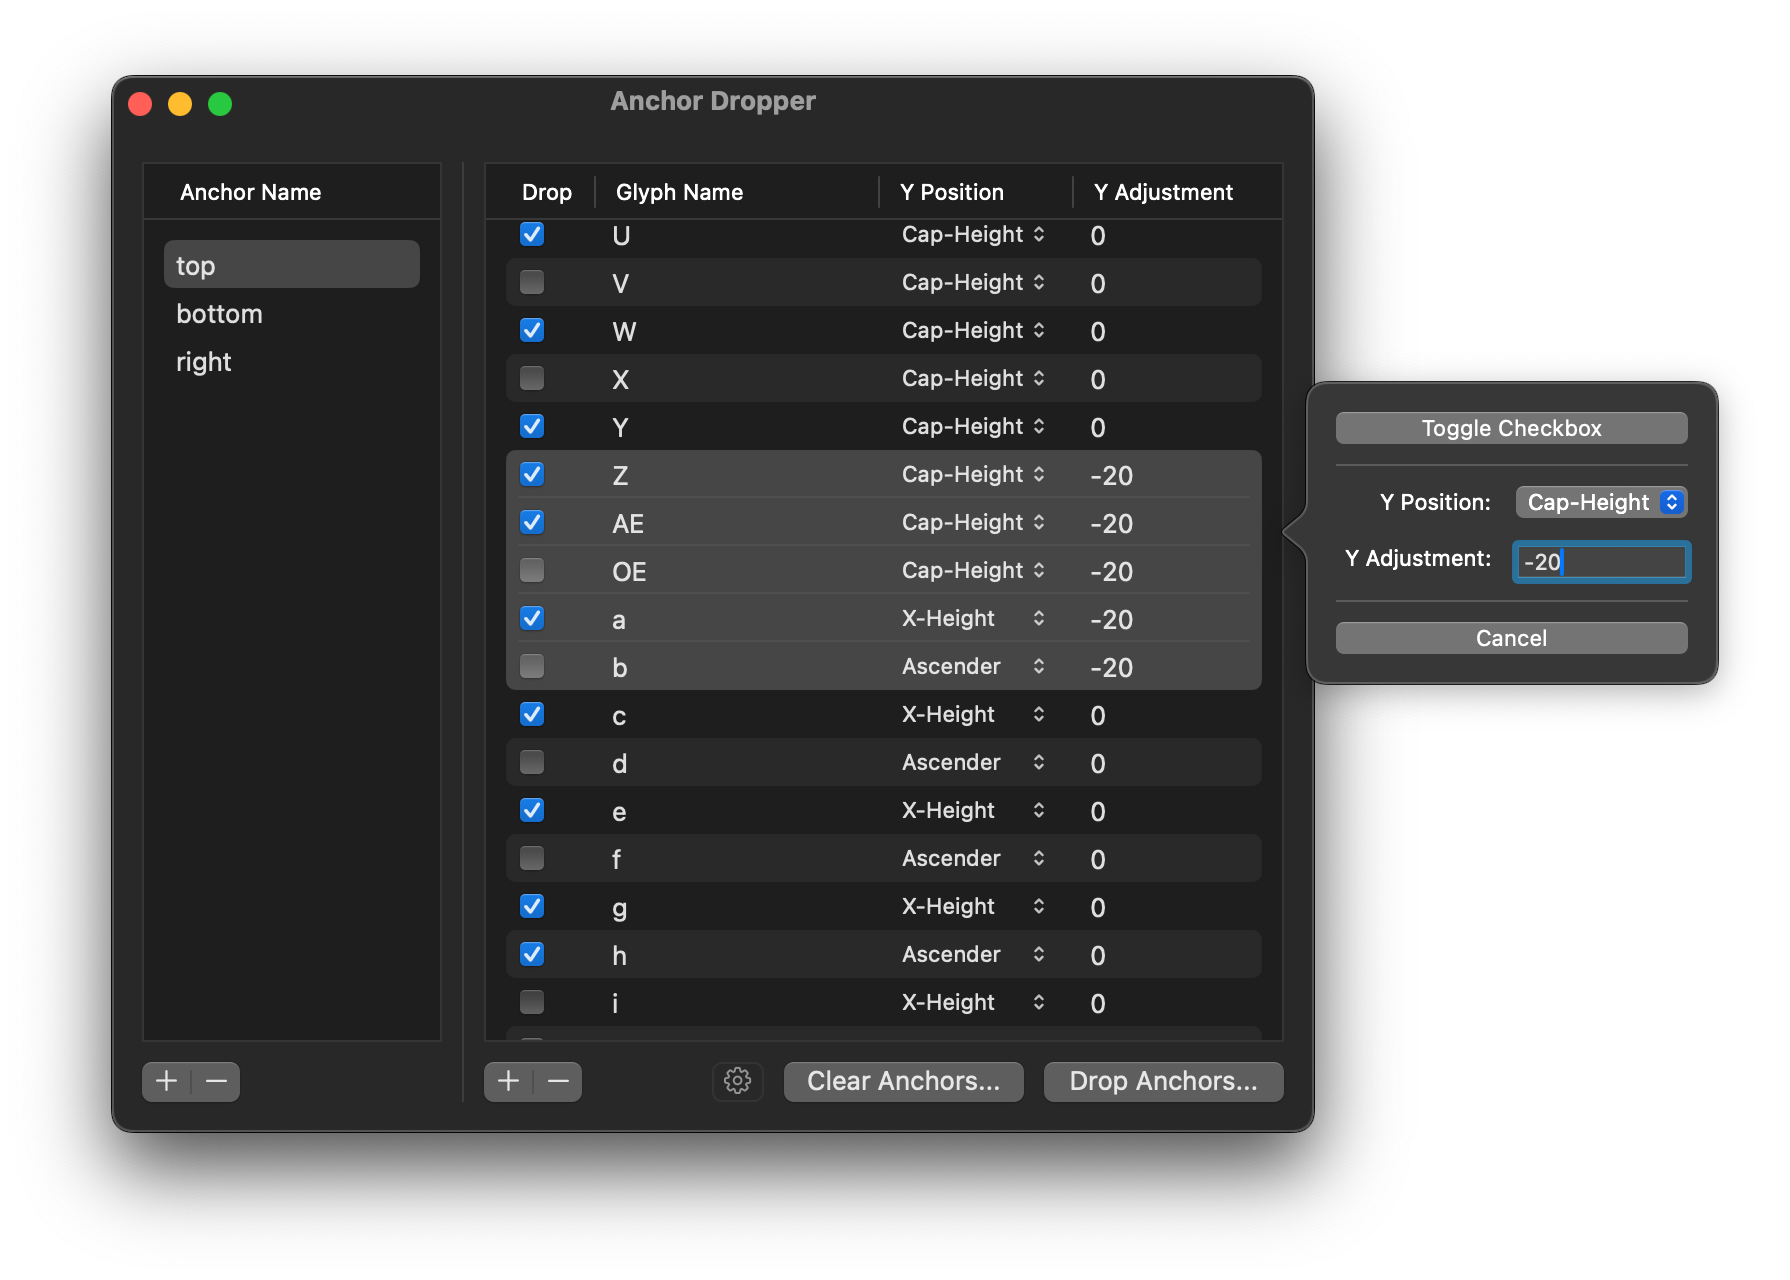
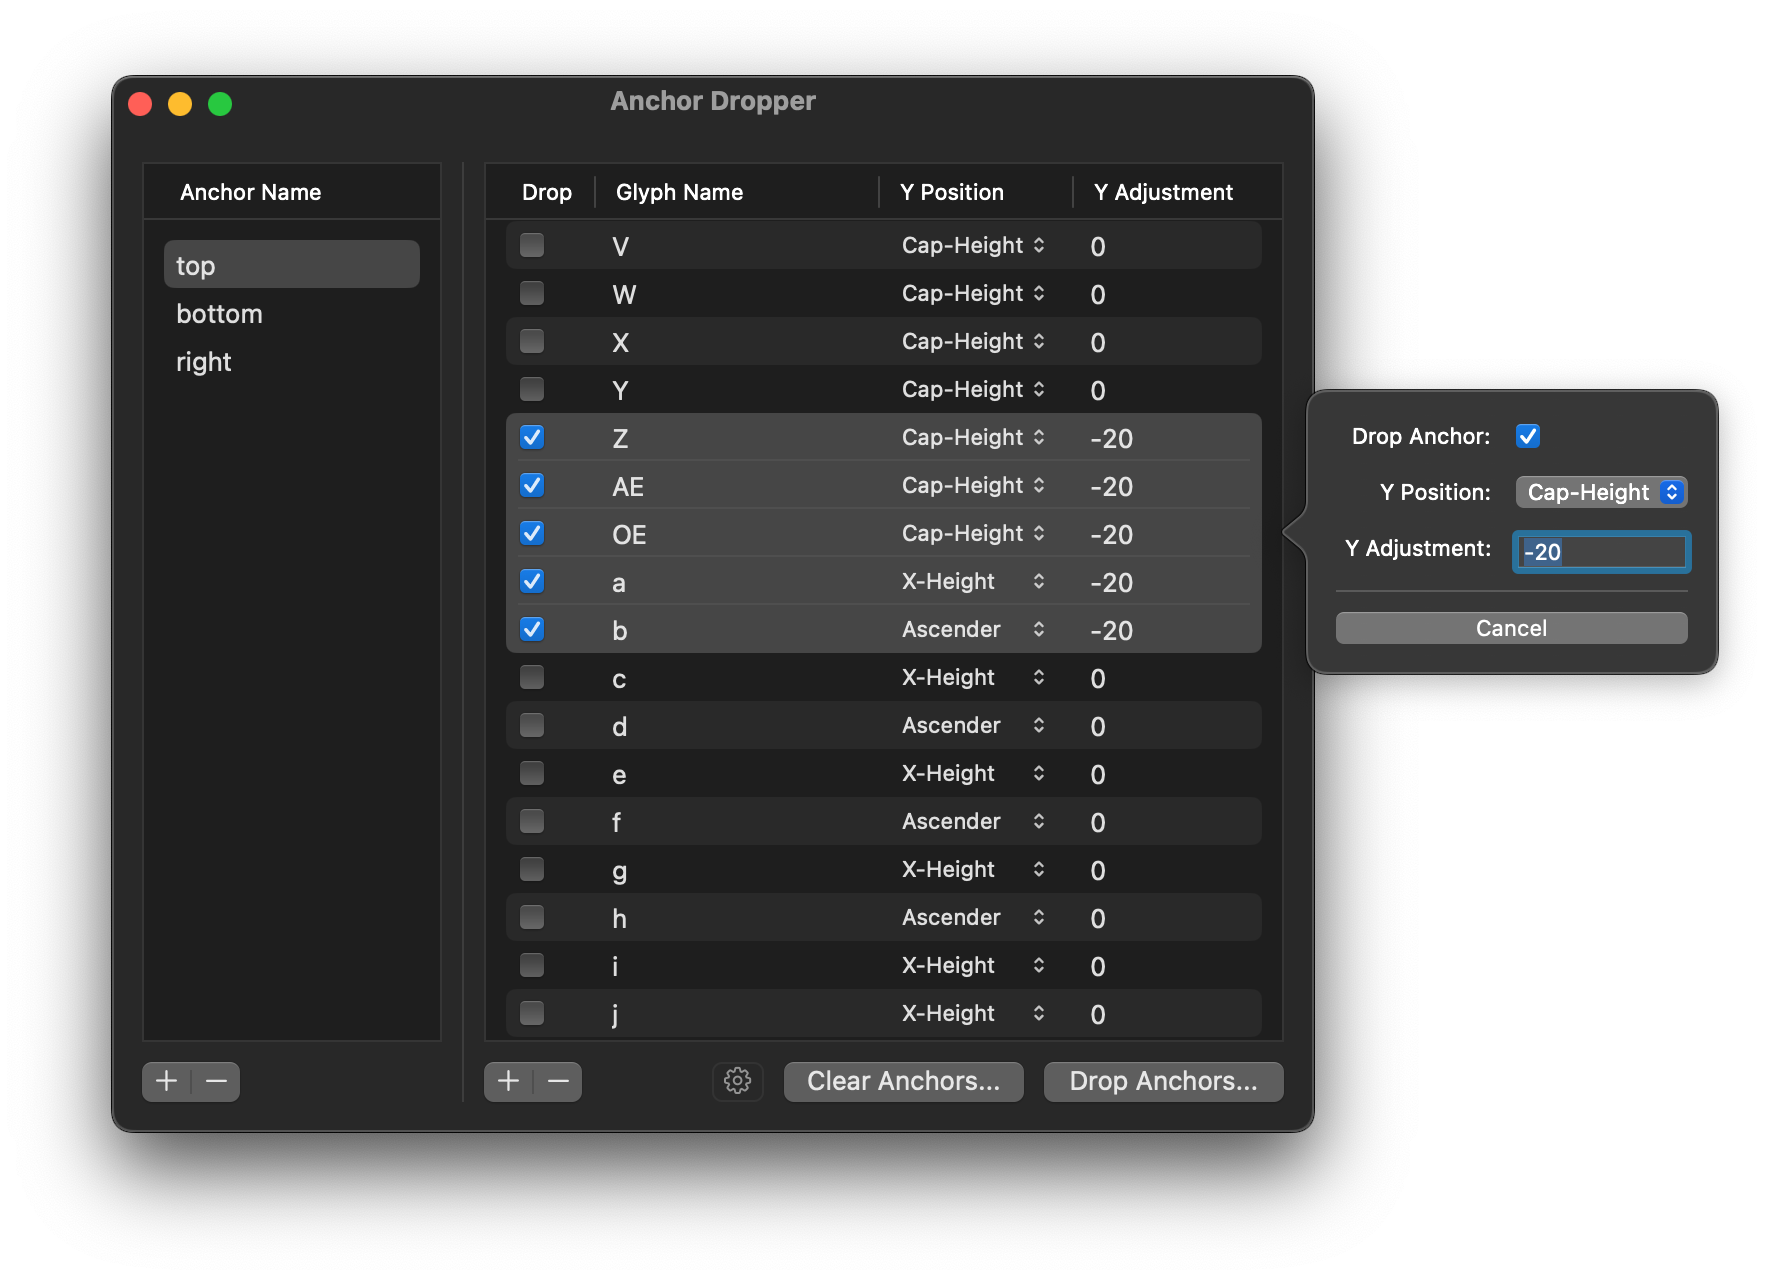
Checkbox on popover, update docs

Changed region(s): [[0.2765, 0.1562, 0.7067, 0.8125], [0.7374, 0.2812, 0.9525, 0.5625], [0.338, 0.5938, 0.3687, 0.625]]

diff --git a/source/lib/main.py b/source/lib/main.py
@@ -248,11 +248,9 @@ class AnchorDropper(ezui.WindowController):
         
         # POPOVER
         content = """
-        (Toggle Checkbox)     @toggleAddButton
-        
-        ---
-        
         * TwoColumnForm       @form
+        > : Drop Anchor:
+        > [X]                 @dropCheckbox
         > : Y Position:
         > ( ...)              @posInput
         > : Y Adjustment:
@@ -415,6 +413,7 @@ class AnchorDropper(ezui.WindowController):
             target_index = min([target_index, 7])
             # Predict correct y-pos
             sel_item = table.getSelectedItems()[0]
+            self.w_over.getItem("dropCheckbox").set(sel_item['drop_anchor'])
             self.w_over.getItem("posInput").set(sel_item['y_pos'])
             self.w_over.getItem("adjustInput").set(int(sel_item['y_adjust']))
             table.openPopoverAtIndex(self.w_over, target_index)
@@ -466,15 +465,14 @@ class AnchorDropper(ezui.WindowController):
             table.setSelectedIndexes(indexes)
             self.update_data()
             
-    def toggleAddButtonCallback(self, sender):
+    def dropCheckboxCallback(self, sender):
         table = self.w.getItem("mainTable")
         indexes = table.getSelectedIndexes()
         if indexes:
             # Get current table data
             table_data = table.get()
-            current_value = table_data[indexes[0]]["drop_anchor"]
             for i in indexes:
-                table_data[i]["drop_anchor"] = not current_value
+                table_data[i]["drop_anchor"] = sender.get()
             # Update table with new data
             table.set(table_data)
             table.reloadData(indexes)

diff --git a/source/html/index.md b/source/html/index.md
@@ -31,8 +31,6 @@ This is where you define which glyphs will get the anchor that is currently sele
 ### Settings
 This is where you can control the settings for the extension.
 ![](../resources/ui-settings.png)
-#### Overwrite Anchors
-If you check this box, anchors of the same name in the same glyph will be overwritten when added to your font.
 
 | Operation | Description |
 | --- | --- |
@@ -41,15 +39,27 @@ If you check this box, anchors of the same name in the same glyph will be overwr
 | **Reset Defaults** | This resets the anchor/glyph settings in the extension to how it looked when you first installed and opened it. |
 
 ### Clear Anchors...
-This is where you can bulk-remove anchors from your font(s). ![](../resources/ui-clear_anchors.png)
+This is where you can bulk-remove anchors from your font(s). 
+
+![](../resources/ui-clear_anchors-all.png)
+![](../resources/ui-clear_anchors-selected.png)
 
 Choose whether you’d like to remove the anchors from the Current Font or All Fonts, and go through the list of anchor names and hit delete. Be advised: the removal will happen instantaneously! Again, Anchor Dropper attempts to remove "\_" anchors as well (so removing "top" will also remove "\_top").
 
-#### Remove Duplicate Anchors
-This button will look at each glyph and make sure you don’t have two anchors of the same name present.
+#### Clear (Selected / All)
+If you have something selected in the table, this button will remove all anchors with the names selected.
 
-### Drop Anchors
-This button will add the anchors to your Current Font.
+If you *do not* have something selected in the table, this button will remove all anchors.
+
+#### Clear (Selected / All) Duplicates
+If you have something selected in the table, this button will remove anchors that are duplicates, only among the names selected.
+
+If you *do not* have something selected in the table, this button will remove anchors that are duplicates.
+
+### Drop Anchors...
+This button will add the anchors to your font(s). Before clicking *Drop Anchors*, choose whether you’d like the add the anchors in question to your current font only or all open fonts. Also specify whether, when adding anchors, you’d like them to overwrite anchors of the same name in the same glyph.
+
+![](../resources/ui-drop_anchors.png)
 
 
 ## Special Thanks
